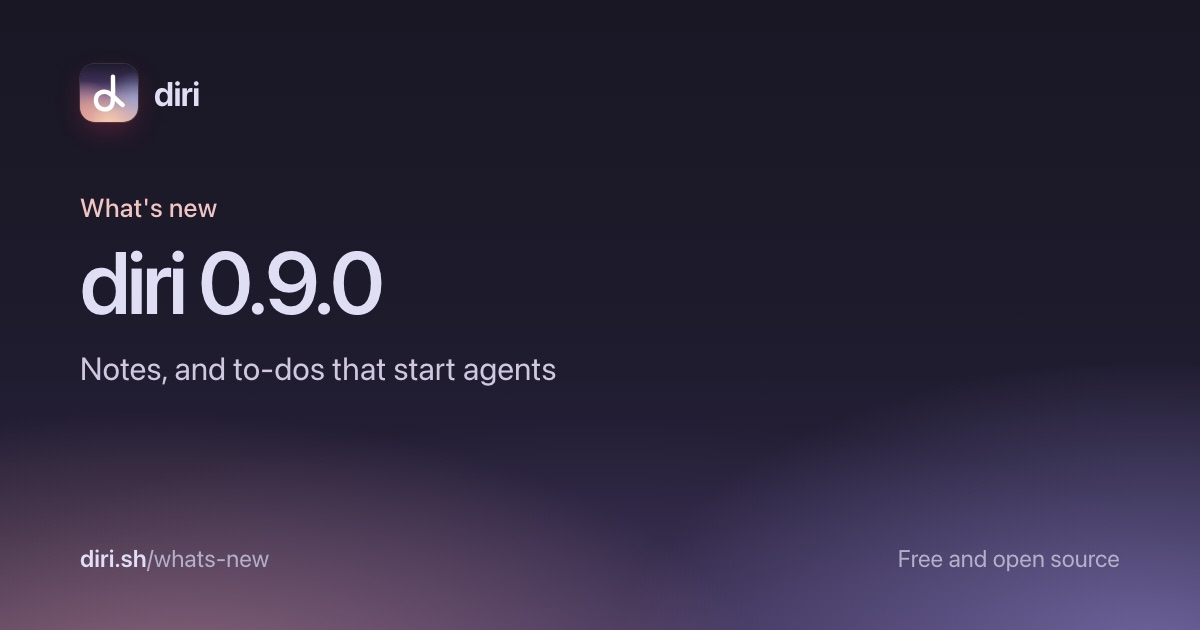
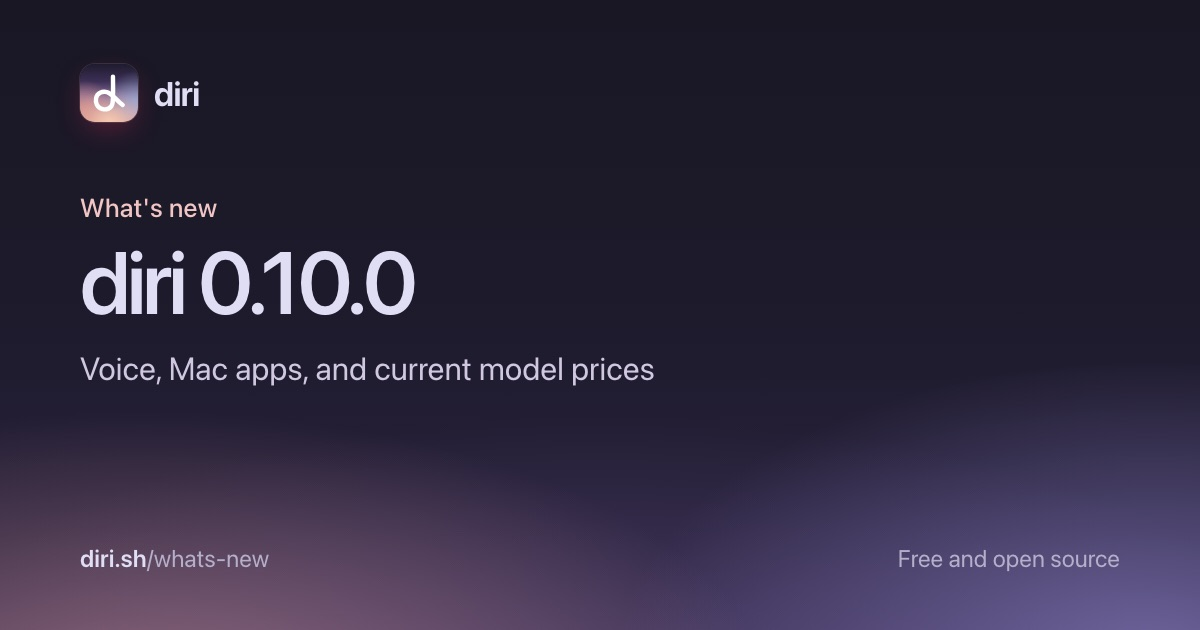
Update the site for AGPL-3.0 and diri 0.10.0
The homepage, guides, and What's new still named Apache 2.0, and What's new stopped at 0.9.0.

Changed region(s): [[0.2158, 0.3921, 0.37, 0.5127], [0.0617, 0.573, 0.555, 0.6032]]

diff --git a/website/whats-new/0.10.0/index.html b/website/whats-new/0.10.0/index.html
@@ -1,0 +1,66 @@
+<!doctype html>
+<html lang="en">
+<head>
+  <meta charset="utf-8">
+  <meta name="viewport" content="width=device-width, initial-scale=1">
+  <meta name="theme-color" content="#191724">
+  <title>diri 0.10.0: Voice, Mac apps, and current model prices · Diri</title>
+  <meta name="description" content="diri 0.10.0 reads finished turns aloud, lets agents use Mac apps in the background, prices new models from LiteLLM, and moves to AGPL-3.0.">
+  <meta name="robots" content="index, follow, max-image-preview:large">
+  <link rel="canonical" href="https://diri.sh/whats-new/0.10.0/">
+  <meta property="og:type" content="article">
+  <meta property="og:site_name" content="Diri">
+  <meta property="og:title" content="diri 0.10.0: Voice, Mac apps, and current model prices">
+  <meta property="og:description" content="diri 0.10.0 reads finished turns aloud, lets agents use Mac apps in the background, prices new models from LiteLLM, and moves to AGPL-3.0.">
+  <meta property="og:url" content="https://diri.sh/whats-new/0.10.0/">
+  <meta property="og:image" content="https://diri.sh/og/whats-new-0-10-0.jpg">
+  <meta property="og:image:width" content="1200">
+  <meta property="og:image:height" content="630">
+  <meta property="og:image:alt" content="diri 0.10.0: Voice, Mac apps, and current model prices">
+  <meta name="twitter:card" content="summary_large_image">
+  <link rel="icon" href="/favicon.svg" type="image/svg+xml">
+  <link rel="stylesheet" href="/style.css">
+  <link rel="stylesheet" href="/guides.css">
+  <link rel="stylesheet" href="/docs.css">
+  <script src="/docs.js" defer></script>
+  <script type="application/ld+json">{"@context":"https://schema.org","@type":"TechArticle","headline":"diri 0.10.0: Voice, Mac apps, and current model prices","description":"diri 0.10.0 reads finished turns aloud, lets agents use Mac apps in the background, prices new models from LiteLLM, and moves to AGPL-3.0.","url":"https://diri.sh/whats-new/0.10.0/","inLanguage":"en","datePublished":"2026-10-18","publisher":{"@type":"Organization","name":"Diri","url":"https://diri.sh/"}}</script>
+  <script type="module" src="/stats.js"></script>
+</head>
+<body class="guide-page article-page">
+  <a class="skip-link" href="#main">Skip to content</a>
+  <div class="site-wrap">
+    <header class="site-header">
+      <a class="wordmark" href="/" aria-label="Diri home"><img class="app-mark" src="/assets/brand/diri-icon.svg" width="26" height="26" alt="">diri</a>
+      <nav class="site-nav" aria-label="Main"><a href="/#features">Features</a><a href="/guides/">Guides</a><a href="/docs/">Docs</a></nav>
+      <div class="header-actions"><a class="github-link" href="https://github.com/cristicretu/diri" aria-label="Diri on GitHub" title="Diri on GitHub"><span class="icon" data-icon="github" aria-hidden="true"></span><span class="star-count" aria-hidden="true"></span></a><a class="nav-download" href="https://github.com/cristicretu/diri/releases/latest">Download</a></div>
+    </header>
+    <main id="main">
+      <header class="guide-heading"><a class="eyebrow" href="/whats-new/">What's new · October 18, 2026</a><h1>diri 0.10.0: Voice, Mac apps, and current model prices</h1><p>diri 0.10.0 reads finished turns aloud, lets agents use Mac apps in the background, prices new models from LiteLLM, and moves to AGPL-3.0.</p></header>
+      <div class="guide-layout"><span></span>
+        <article class="docs-content article-content">
+<div class="whats-new release-page"><section class="release"><article class="release-item"><h3>Talk with your agent</h3><p>When an agent finishes, Diri reads a short summary aloud. Answer by voice and end with &quot;send to agent&quot;.</p></article><article class="release-item"><h3>Agents can use your Mac's apps</h3><p>A background computer tool drives real Mac apps while your cursor, keyboard, and focus stay yours.</p></article><article class="release-item"><h3>Model prices stay current</h3><p>Claude and Codex cost estimates use rates fetched from LiteLLM when the release is built, including new model ids such as gpt-6.1-sol.</p></article><article class="release-item"><h3>AGPL-3.0</h3><p>Diri stays free, including for commercial use. A modified or hosted copy has to publish its source under the same license.</p></article></section></div>
+<p>Every fix and smaller change is in the <a href="https://github.com/cristicretu/diri/releases/tag/v0.10.0">full release notes</a>. diri updates itself; this release shows up as a restart prompt when it is ready.</p>
+        <aside class="install-box">
+          <div class="install-copy"><strong>Get diri 0.10.0</strong><span>Free and open source. macOS 15 or newer, Linux in beta. Bring the agent CLIs and accounts you already have.</span></div>
+          <div class="install-actions"><a class="button primary" href="https://github.com/cristicretu/diri/releases/latest"><span class="icon" data-icon="download" aria-hidden="true"></span>Download for macOS</a><div class="code-block install-brew" data-lang="sh"><button class="code-copy" type="button" aria-label="Copy code"><span class="icon" aria-hidden="true"></span></button><pre><code><span class="tk-cmd">brew</span> install <span class="tk-flag">--cask</span> cristicretu/diri/diri</code></pre></div></div>
+        </aside>
+        <nav class="docs-pager" aria-label="Other releases"><a class="prev" href="/whats-new/0.9.0/"><span>Older</span>diri 0.9.0</a><a class="next" href="/whats-new/"><span>All releases</span>What's new</a></nav>
+        </article>
+      </div>
+    </main>
+    <footer class="site-footer">
+      <div class="footer-main">
+        <div class="footer-about">
+          <a class="footer-brand" href="/" aria-label="Diri home"><img class="app-mark" src="/assets/brand/diri-icon.svg" width="26" height="26" alt="">diri</a>
+          <p>The best way to work with coding agents.</p>
+        </div>
+        <nav class="footer-columns" aria-label="Resources">
+          <div><h3>Product</h3><a href="https://github.com/cristicretu/diri/releases/latest">Download</a><a href="/whats-new/">What's new</a><a href="https://github.com/cristicretu/diri/releases">Release notes</a><a href="/guides/">Guides</a><a href="/agents/">Agents</a><a href="/compare/">Compare</a></div>
+          <div><h3>Project</h3><a href="https://github.com/cristicretu/diri">GitHub</a><a href="/docs/">Documentation</a><a href="https://github.com/cristicretu/diri/blob/main/ROADMAP.md">Roadmap</a></div>
+          <div><h3>Legal</h3><a href="https://github.com/cristicretu/diri/blob/main/LICENSE">AGPL-3.0</a><a href="https://github.com/cristicretu/diri/blob/main/PRIVACY.md">Privacy</a><a href="https://github.com/cristicretu/diri/blob/main/SECURITY.md">Security</a></div>
+        </nav>
+      </div>
+    </footer>
+  </div>
+</body>
+</html>

diff --git a/website/index.html b/website/index.html
@@ -103,7 +103,7 @@
           "name": "Is diri free?",
           "acceptedAnswer": {
             "@type": "Answer",
-            "text": "Yes. diri is free and open source under Apache 2.0. You only pay for the agents you use, through your own Claude, ChatGPT or other accounts."
+            "text": "Yes. diri is free and open source under AGPL-3.0. You only pay for the agents you use, through your own Claude, ChatGPT or other accounts. A modified or hosted copy has to publish its source under the same license."
           }
         },
         {
@@ -307,7 +307,7 @@
           <div class="bento-card small"><span class="icon" data-icon="keyboard" aria-hidden="true"></span><dt>Command menu</dt><dd>Chats, projects and settings one ⌘K away. Rebind any shortcut.</dd></div>
           <div class="bento-card small"><span class="icon" data-icon="code" aria-hidden="true"></span><dt>Files &amp; source</dt><dd>Open file references from output and search symbols in place.</dd></div>
           <div class="bento-card small"><span class="icon" data-icon="file" aria-hidden="true"></span><dt>Skill library</dt><dd>Search, read and copy personal, project and plugin skills.</dd></div>
-          <div class="bento-card small"><span class="icon" data-icon="shield" aria-hidden="true"></span><dt>Free &amp; open source</dt><dd>Apache 2.0, native Rust, no Electron, no account.</dd></div>
+          <div class="bento-card small"><span class="icon" data-icon="shield" aria-hidden="true"></span><dt>Free &amp; open source</dt><dd>AGPL-3.0, native Rust, no Electron, no account.</dd></div>
         </dl>
         <section class="more-section" aria-labelledby="guides-title">
           <div class="features-heading"><h2 id="guides-title">Guides</h2><a href="/guides/">All guides <span class="icon" data-icon="chevron-right" aria-hidden="true"></span></a></div>
@@ -320,7 +320,7 @@
         </section>
         <section class="more-section" id="faq" aria-labelledby="faq-title">
           <div class="features-heading"><h2 id="faq-title">Questions</h2></div>
-          <dl class="faq-grid"><div><dt>Is diri free?</dt><dd>Yes. diri is free and open source under Apache 2.0. You only pay for the agents you use, through your own Claude, ChatGPT or other accounts.</dd></div><div><dt>Which agents does it work with?</dt><dd>Claude Code, Codex, Cursor, Gemini, OpenCode, Pi, Copilot, Kimi and more: 22 agent definitions ship with the app, and any terminal agent can be added with a short JSON file.</dd></div><div><dt>Do I need to know how to code?</dt><dd>No. You describe tasks in plain English and the agents do the work. The guides are written for marketers and product managers as well as developers.</dd></div><div><dt>What happens when I close diri?</dt><dd>Your agents keep working. Reopen diri and every session is where you left it. Restarting your Mac stops them, but Claude Code, Codex and most others can resume the same conversation.</dd></div><div><dt>Can agents work together?</dt><dd>Yes. Claude Code, Codex and Cursor sessions started in diri can start other agents, hand them tasks, and collect their results. Ask in plain English, starting with “Use diri to…”.</dd></div><div><dt>Does diri see my code or prompts?</dt><dd>No. Agents run on your Mac or your own servers, with no diri account and no hosted relay. diri records crash and performance diagnostics, never terminal contents or prompts, and you can turn sharing off.</dd></div><div><dt>Which platforms are supported?</dt><dd>macOS 15 or newer on Apple silicon and Intel. Linux is in beta, and a Windows version is in progress.</dd></div></dl>
+          <dl class="faq-grid"><div><dt>Is diri free?</dt><dd>Yes. diri is free and open source under AGPL-3.0. You only pay for the agents you use, through your own Claude, ChatGPT or other accounts. A modified or hosted copy has to publish its source under the same license.</dd></div><div><dt>Which agents does it work with?</dt><dd>Claude Code, Codex, Cursor, Gemini, OpenCode, Pi, Copilot, Kimi and more: 22 agent definitions ship with the app, and any terminal agent can be added with a short JSON file.</dd></div><div><dt>Do I need to know how to code?</dt><dd>No. You describe tasks in plain English and the agents do the work. The guides are written for marketers and product managers as well as developers.</dd></div><div><dt>What happens when I close diri?</dt><dd>Your agents keep working. Reopen diri and every session is where you left it. Restarting your Mac stops them, but Claude Code, Codex and most others can resume the same conversation.</dd></div><div><dt>Can agents work together?</dt><dd>Yes. Claude Code, Codex and Cursor sessions started in diri can start other agents, hand them tasks, and collect their results. Ask in plain English, starting with “Use diri to…”.</dd></div><div><dt>Does diri see my code or prompts?</dt><dd>No. Agents run on your Mac or your own servers, with no diri account and no hosted relay. diri records crash and performance diagnostics, never terminal contents or prompts, and you can turn sharing off.</dd></div><div><dt>Which platforms are supported?</dt><dd>macOS 15 or newer on Apple silicon and Intel. Linux is in beta, and a Windows version is in progress.</dd></div></dl>
         </section>
       </section>
     </main>
@@ -333,7 +333,7 @@
         <nav class="footer-columns" aria-label="Resources">
           <div><h3>Product</h3><a href="https://github.com/cristicretu/diri/releases/latest">Download</a><a href="/whats-new/">What's new</a><a href="https://github.com/cristicretu/diri/releases">Release notes</a><a href="/guides/">Guides</a><a href="/agents/">Agents</a><a href="/compare/">Compare</a></div>
           <div><h3>Project</h3><a href="https://github.com/cristicretu/diri">GitHub</a><a href="/docs/">Documentation</a><a href="https://github.com/cristicretu/diri/blob/main/ROADMAP.md">Roadmap</a></div>
-          <div><h3>Legal</h3><a href="https://github.com/cristicretu/diri/blob/main/LICENSE">Apache 2.0</a><a href="https://github.com/cristicretu/diri/blob/main/PRIVACY.md">Privacy</a><a href="https://github.com/cristicretu/diri/blob/main/SECURITY.md">Security</a></div>
+          <div><h3>Legal</h3><a href="https://github.com/cristicretu/diri/blob/main/LICENSE">AGPL-3.0</a><a href="https://github.com/cristicretu/diri/blob/main/PRIVACY.md">Privacy</a><a href="https://github.com/cristicretu/diri/blob/main/SECURITY.md">Security</a></div>
         </nav>
       </div>
     </footer>

diff --git a/website/whats-new/index.html b/website/whats-new/index.html
@@ -33,6 +33,7 @@
     </header>
     <main id="main" class="guide-index whats-new">
       <header class="guide-heading"><span class="eyebrow">What's new</span><h1>What's new in diri</h1><p>The highlights of each release, recorded from the app itself. diri shows them once after it updates, and again any time from Help › What's New. Every change is in the <a href="https://github.com/cristicretu/diri/releases">release notes</a>.</p></header>
+      <section class="release" id="v0.10.0"><header class="release-heading"><h2><a href="/whats-new/0.10.0/">diri 0.10.0</a></h2><span>October 18, 2026</span></header><article class="release-item"><h3>Talk with your agent</h3><p>When an agent finishes, Diri reads a short summary aloud. Answer by voice and end with &quot;send to agent&quot;.</p></article><article class="release-item"><h3>Agents can use your Mac's apps</h3><p>A background computer tool drives real Mac apps while your cursor, keyboard, and focus stay yours.</p></article><article class="release-item"><h3>Model prices stay current</h3><p>Claude and Codex cost estimates use rates fetched from LiteLLM when the release is built, including new model ids such as gpt-6.1-sol.</p></article><article class="release-item"><h3>AGPL-3.0</h3><p>Diri stays free, including for commercial use. A modified or hosted copy has to publish its source under the same license.</p></article></section>
       <section class="release" id="v0.9.0"><header class="release-heading"><h2><a href="/whats-new/0.9.0/">diri 0.9.0</a></h2><span>October 1, 2026</span></header><article class="release-item"><figure class="release-clip"><img src="/assets/whats-new/notes.webp" width="1440" height="900" alt="A blank note becomes a launch plan: a title, a to-do from the slash menu, and an @ mention that links a running Claude Code session." loading="lazy" decoding="async"></figure><h3>Notes</h3><p>Think next to your agents. Type / for blocks and @ to link a session; every note is plain Markdown on disk.</p></article><article class="release-item"><figure class="release-clip"><img src="/assets/whats-new/todos.webp" width="1440" height="900" alt="A to-do opens the Start panel, becomes a Claude Code session in the sidebar, asks a question, and finishes ready to review." loading="lazy" decoding="async"></figure><h3>To-dos that start agents</h3><p>Press ⌃⌘↩ on a to-do to hand it to an agent with the note as context. Its progress shows up right under the to-do.</p></article><article class="release-item"><figure class="release-clip"><img src="/assets/whats-new/search.webp" width="1440" height="900" alt="Typing pricing in Search notes finds three notes by what they say." loading="lazy" decoding="async"></figure><h3>Search every note</h3><p>⇧⌘F finds a note by anything it says, not just its title.</p></article></section>
     </main>
     <footer class="site-footer">
@@ -44,7 +45,7 @@
         <nav class="footer-columns" aria-label="Resources">
           <div><h3>Product</h3><a href="https://github.com/cristicretu/diri/releases/latest">Download</a><a href="/whats-new/">What's new</a><a href="https://github.com/cristicretu/diri/releases">Release notes</a><a href="/guides/">Guides</a><a href="/agents/">Agents</a><a href="/compare/">Compare</a></div>
           <div><h3>Project</h3><a href="https://github.com/cristicretu/diri">GitHub</a><a href="/docs/">Documentation</a><a href="https://github.com/cristicretu/diri/blob/main/ROADMAP.md">Roadmap</a></div>
-          <div><h3>Legal</h3><a href="https://github.com/cristicretu/diri/blob/main/LICENSE">Apache 2.0</a><a href="https://github.com/cristicretu/diri/blob/main/PRIVACY.md">Privacy</a><a href="https://github.com/cristicretu/diri/blob/main/SECURITY.md">Security</a></div>
+          <div><h3>Legal</h3><a href="https://github.com/cristicretu/diri/blob/main/LICENSE">AGPL-3.0</a><a href="https://github.com/cristicretu/diri/blob/main/PRIVACY.md">Privacy</a><a href="https://github.com/cristicretu/diri/blob/main/SECURITY.md">Security</a></div>
         </nav>
       </div>
     </footer>

diff --git a/website/guides/scheduled-tasks/index.html b/website/guides/scheduled-tasks/index.html
@@ -109,7 +109,7 @@
         <nav class="footer-columns" aria-label="Resources">
           <div><h3>Product</h3><a href="https://github.com/cristicretu/diri/releases/latest">Download</a><a href="/whats-new/">What's new</a><a href="https://github.com/cristicretu/diri/releases">Release notes</a><a href="/guides/">Guides</a><a href="/agents/">Agents</a><a href="/compare/">Compare</a></div>
           <div><h3>Project</h3><a href="https://github.com/cristicretu/diri">GitHub</a><a href="/docs/">Documentation</a><a href="https://github.com/cristicretu/diri/blob/main/ROADMAP.md">Roadmap</a></div>
-          <div><h3>Legal</h3><a href="https://github.com/cristicretu/diri/blob/main/LICENSE">Apache 2.0</a><a href="https://github.com/cristicretu/diri/blob/main/PRIVACY.md">Privacy</a><a href="https://github.com/cristicretu/diri/blob/main/SECURITY.md">Security</a></div>
+          <div><h3>Legal</h3><a href="https://github.com/cristicretu/diri/blob/main/LICENSE">AGPL-3.0</a><a href="https://github.com/cristicretu/diri/blob/main/PRIVACY.md">Privacy</a><a href="https://github.com/cristicretu/diri/blob/main/SECURITY.md">Security</a></div>
         </nav>
       </div>
     </footer>

diff --git a/website/guides/agent-teams/index.html b/website/guides/agent-teams/index.html
@@ -66,7 +66,7 @@
         <nav class="footer-columns" aria-label="Resources">
           <div><h3>Product</h3><a href="https://github.com/cristicretu/diri/releases/latest">Download</a><a href="/whats-new/">What's new</a><a href="https://github.com/cristicretu/diri/releases">Release notes</a><a href="/guides/">Guides</a><a href="/agents/">Agents</a><a href="/compare/">Compare</a></div>
           <div><h3>Project</h3><a href="https://github.com/cristicretu/diri">GitHub</a><a href="/docs/">Documentation</a><a href="https://github.com/cristicretu/diri/blob/main/ROADMAP.md">Roadmap</a></div>
-          <div><h3>Legal</h3><a href="https://github.com/cristicretu/diri/blob/main/LICENSE">Apache 2.0</a><a href="https://github.com/cristicretu/diri/blob/main/PRIVACY.md">Privacy</a><a href="https://github.com/cristicretu/diri/blob/main/SECURITY.md">Security</a></div>
+          <div><h3>Legal</h3><a href="https://github.com/cristicretu/diri/blob/main/LICENSE">AGPL-3.0</a><a href="https://github.com/cristicretu/diri/blob/main/PRIVACY.md">Privacy</a><a href="https://github.com/cristicretu/diri/blob/main/SECURITY.md">Security</a></div>
         </nav>
       </div>
     </footer>

diff --git a/website/guides/first-agent/index.html b/website/guides/first-agent/index.html
@@ -80,7 +80,7 @@
         <nav class="footer-columns" aria-label="Resources">
           <div><h3>Product</h3><a href="https://github.com/cristicretu/diri/releases/latest">Download</a><a href="/whats-new/">What's new</a><a href="https://github.com/cristicretu/diri/releases">Release notes</a><a href="/guides/">Guides</a><a href="/agents/">Agents</a><a href="/compare/">Compare</a></div>
           <div><h3>Project</h3><a href="https://github.com/cristicretu/diri">GitHub</a><a href="/docs/">Documentation</a><a href="https://github.com/cristicretu/diri/blob/main/ROADMAP.md">Roadmap</a></div>
-          <div><h3>Legal</h3><a href="https://github.com/cristicretu/diri/blob/main/LICENSE">Apache 2.0</a><a href="https://github.com/cristicretu/diri/blob/main/PRIVACY.md">Privacy</a><a href="https://github.com/cristicretu/diri/blob/main/SECURITY.md">Security</a></div>
+          <div><h3>Legal</h3><a href="https://github.com/cristicretu/diri/blob/main/LICENSE">AGPL-3.0</a><a href="https://github.com/cristicretu/diri/blob/main/PRIVACY.md">Privacy</a><a href="https://github.com/cristicretu/diri/blob/main/SECURITY.md">Security</a></div>
         </nav>
       </div>
     </footer>

diff --git a/website/guides/index.html b/website/guides/index.html
@@ -44,7 +44,7 @@
         <nav class="footer-columns" aria-label="Resources">
           <div><h3>Product</h3><a href="https://github.com/cristicretu/diri/releases/latest">Download</a><a href="/whats-new/">What's new</a><a href="https://github.com/cristicretu/diri/releases">Release notes</a><a href="/guides/">Guides</a><a href="/agents/">Agents</a><a href="/compare/">Compare</a></div>
           <div><h3>Project</h3><a href="https://github.com/cristicretu/diri">GitHub</a><a href="/docs/">Documentation</a><a href="https://github.com/cristicretu/diri/blob/main/ROADMAP.md">Roadmap</a></div>
-          <div><h3>Legal</h3><a href="https://github.com/cristicretu/diri/blob/main/LICENSE">Apache 2.0</a><a href="https://github.com/cristicretu/diri/blob/main/PRIVACY.md">Privacy</a><a href="https://github.com/cristicretu/diri/blob/main/SECURITY.md">Security</a></div>
+          <div><h3>Legal</h3><a href="https://github.com/cristicretu/diri/blob/main/LICENSE">AGPL-3.0</a><a href="https://github.com/cristicretu/diri/blob/main/PRIVACY.md">Privacy</a><a href="https://github.com/cristicretu/diri/blob/main/SECURITY.md">Security</a></div>
         </nav>
       </div>
     </footer>

diff --git a/website/guides/never-lose-work/index.html b/website/guides/never-lose-work/index.html
@@ -74,7 +74,7 @@
         <nav class="footer-columns" aria-label="Resources">
           <div><h3>Product</h3><a href="https://github.com/cristicretu/diri/releases/latest">Download</a><a href="/whats-new/">What's new</a><a href="https://github.com/cristicretu/diri/releases">Release notes</a><a href="/guides/">Guides</a><a href="/agents/">Agents</a><a href="/compare/">Compare</a></div>
           <div><h3>Project</h3><a href="https://github.com/cristicretu/diri">GitHub</a><a href="/docs/">Documentation</a><a href="https://github.com/cristicretu/diri/blob/main/ROADMAP.md">Roadmap</a></div>
-          <div><h3>Legal</h3><a href="https://github.com/cristicretu/diri/blob/main/LICENSE">Apache 2.0</a><a href="https://github.com/cristicretu/diri/blob/main/PRIVACY.md">Privacy</a><a href="https://github.com/cristicretu/diri/blob/main/SECURITY.md">Security</a></div>
+          <div><h3>Legal</h3><a href="https://github.com/cristicretu/diri/blob/main/LICENSE">AGPL-3.0</a><a href="https://github.com/cristicretu/diri/blob/main/PRIVACY.md">Privacy</a><a href="https://github.com/cristicretu/diri/blob/main/SECURITY.md">Security</a></div>
         </nav>
       </div>
     </footer>

diff --git a/website/guides/parallel-agents/index.html b/website/guides/parallel-agents/index.html
@@ -74,7 +74,7 @@
         <nav class="footer-columns" aria-label="Resources">
           <div><h3>Product</h3><a href="https://github.com/cristicretu/diri/releases/latest">Download</a><a href="/whats-new/">What's new</a><a href="https://github.com/cristicretu/diri/releases">Release notes</a><a href="/guides/">Guides</a><a href="/agents/">Agents</a><a href="/compare/">Compare</a></div>
           <div><h3>Project</h3><a href="https://github.com/cristicretu/diri">GitHub</a><a href="/docs/">Documentation</a><a href="https://github.com/cristicretu/diri/blob/main/ROADMAP.md">Roadmap</a></div>
-          <div><h3>Legal</h3><a href="https://github.com/cristicretu/diri/blob/main/LICENSE">Apache 2.0</a><a href="https://github.com/cristicretu/diri/blob/main/PRIVACY.md">Privacy</a><a href="https://github.com/cristicretu/diri/blob/main/SECURITY.md">Security</a></div>
+          <div><h3>Legal</h3><a href="https://github.com/cristicretu/diri/blob/main/LICENSE">AGPL-3.0</a><a href="https://github.com/cristicretu/diri/blob/main/PRIVACY.md">Privacy</a><a href="https://github.com/cristicretu/diri/blob/main/SECURITY.md">Security</a></div>
         </nav>
       </div>
     </footer>

diff --git a/website/guides/remote-sessions/index.html b/website/guides/remote-sessions/index.html
@@ -67,7 +67,7 @@
         <nav class="footer-columns" aria-label="Resources">
           <div><h3>Product</h3><a href="https://github.com/cristicretu/diri/releases/latest">Download</a><a href="/whats-new/">What's new</a><a href="https://github.com/cristicretu/diri/releases">Release notes</a><a href="/guides/">Guides</a><a href="/agents/">Agents</a><a href="/compare/">Compare</a></div>
           <div><h3>Project</h3><a href="https://github.com/cristicretu/diri">GitHub</a><a href="/docs/">Documentation</a><a href="https://github.com/cristicretu/diri/blob/main/ROADMAP.md">Roadmap</a></div>
-          <div><h3>Legal</h3><a href="https://github.com/cristicretu/diri/blob/main/LICENSE">Apache 2.0</a><a href="https://github.com/cristicretu/diri/blob/main/PRIVACY.md">Privacy</a><a href="https://github.com/cristicretu/diri/blob/main/SECURITY.md">Security</a></div>
+          <div><h3>Legal</h3><a href="https://github.com/cristicretu/diri/blob/main/LICENSE">AGPL-3.0</a><a href="https://github.com/cristicretu/diri/blob/main/PRIVACY.md">Privacy</a><a href="https://github.com/cristicretu/diri/blob/main/SECURITY.md">Security</a></div>
         </nav>
       </div>
     </footer>

diff --git a/website/guides/review-changes/index.html b/website/guides/review-changes/index.html
@@ -63,7 +63,7 @@
         <nav class="footer-columns" aria-label="Resources">
           <div><h3>Product</h3><a href="https://github.com/cristicretu/diri/releases/latest">Download</a><a href="/whats-new/">What's new</a><a href="https://github.com/cristicretu/diri/releases">Release notes</a><a href="/guides/">Guides</a><a href="/agents/">Agents</a><a href="/compare/">Compare</a></div>
           <div><h3>Project</h3><a href="https://github.com/cristicretu/diri">GitHub</a><a href="/docs/">Documentation</a><a href="https://github.com/cristicretu/diri/blob/main/ROADMAP.md">Roadmap</a></div>
-          <div><h3>Legal</h3><a href="https://github.com/cristicretu/diri/blob/main/LICENSE">Apache 2.0</a><a href="https://github.com/cristicretu/diri/blob/main/PRIVACY.md">Privacy</a><a href="https://github.com/cristicretu/diri/blob/main/SECURITY.md">Security</a></div>
+          <div><h3>Legal</h3><a href="https://github.com/cristicretu/diri/blob/main/LICENSE">AGPL-3.0</a><a href="https://github.com/cristicretu/diri/blob/main/PRIVACY.md">Privacy</a><a href="https://github.com/cristicretu/diri/blob/main/SECURITY.md">Security</a></div>
         </nav>
       </div>
     </footer>

diff --git a/website/guides/shortcuts/index.html b/website/guides/shortcuts/index.html
@@ -48,7 +48,7 @@
         <nav class="footer-columns" aria-label="Resources">
           <div><h3>Product</h3><a href="https://github.com/cristicretu/diri/releases/latest">Download</a><a href="/whats-new/">What's new</a><a href="https://github.com/cristicretu/diri/releases">Release notes</a><a href="/guides/">Guides</a><a href="/agents/">Agents</a><a href="/compare/">Compare</a></div>
           <div><h3>Project</h3><a href="https://github.com/cristicretu/diri">GitHub</a><a href="/docs/">Documentation</a><a href="https://github.com/cristicretu/diri/blob/main/ROADMAP.md">Roadmap</a></div>
-          <div><h3>Legal</h3><a href="https://github.com/cristicretu/diri/blob/main/LICENSE">Apache 2.0</a><a href="https://github.com/cristicretu/diri/blob/main/PRIVACY.md">Privacy</a><a href="https://github.com/cristicretu/diri/blob/main/SECURITY.md">Security</a></div>
+          <div><h3>Legal</h3><a href="https://github.com/cristicretu/diri/blob/main/LICENSE">AGPL-3.0</a><a href="https://github.com/cristicretu/diri/blob/main/PRIVACY.md">Privacy</a><a href="https://github.com/cristicretu/diri/blob/main/SECURITY.md">Security</a></div>
         </nav>
       </div>
     </footer>
